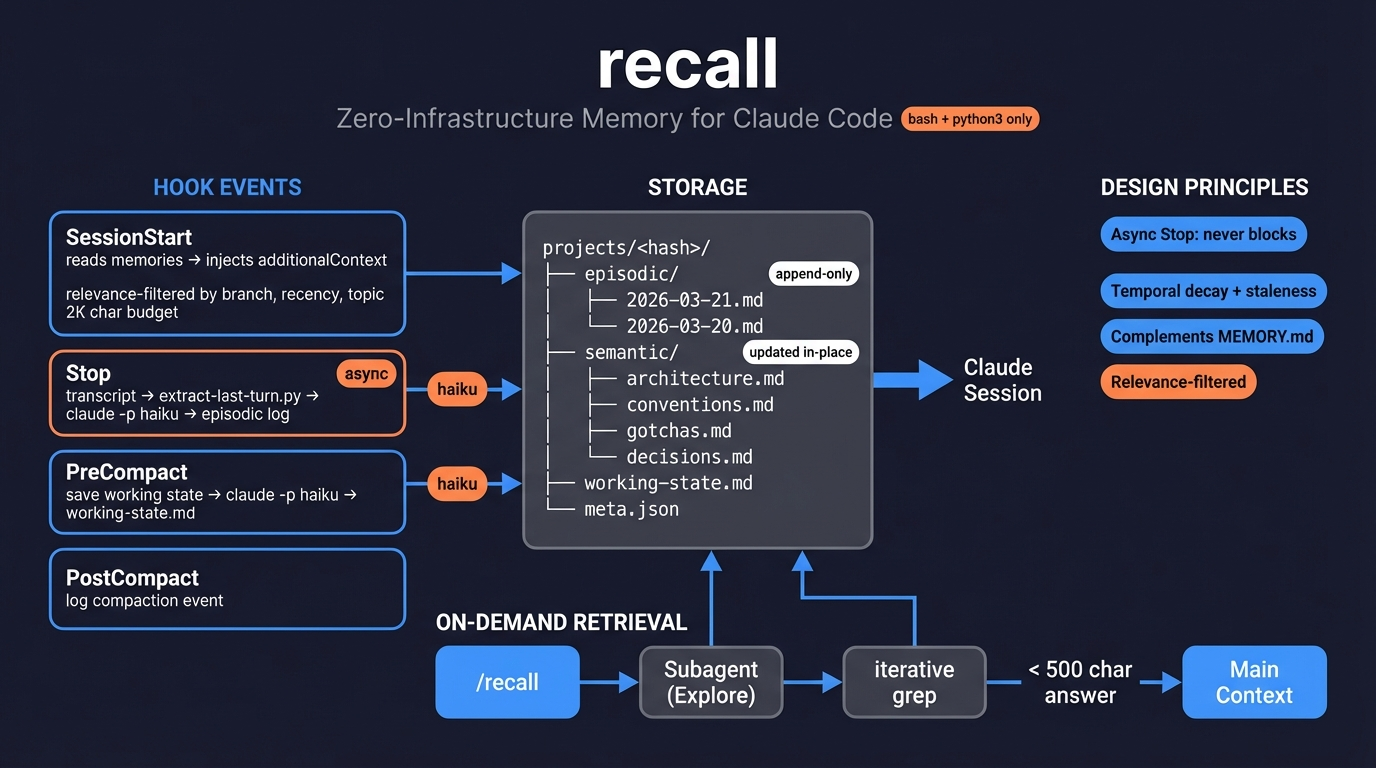
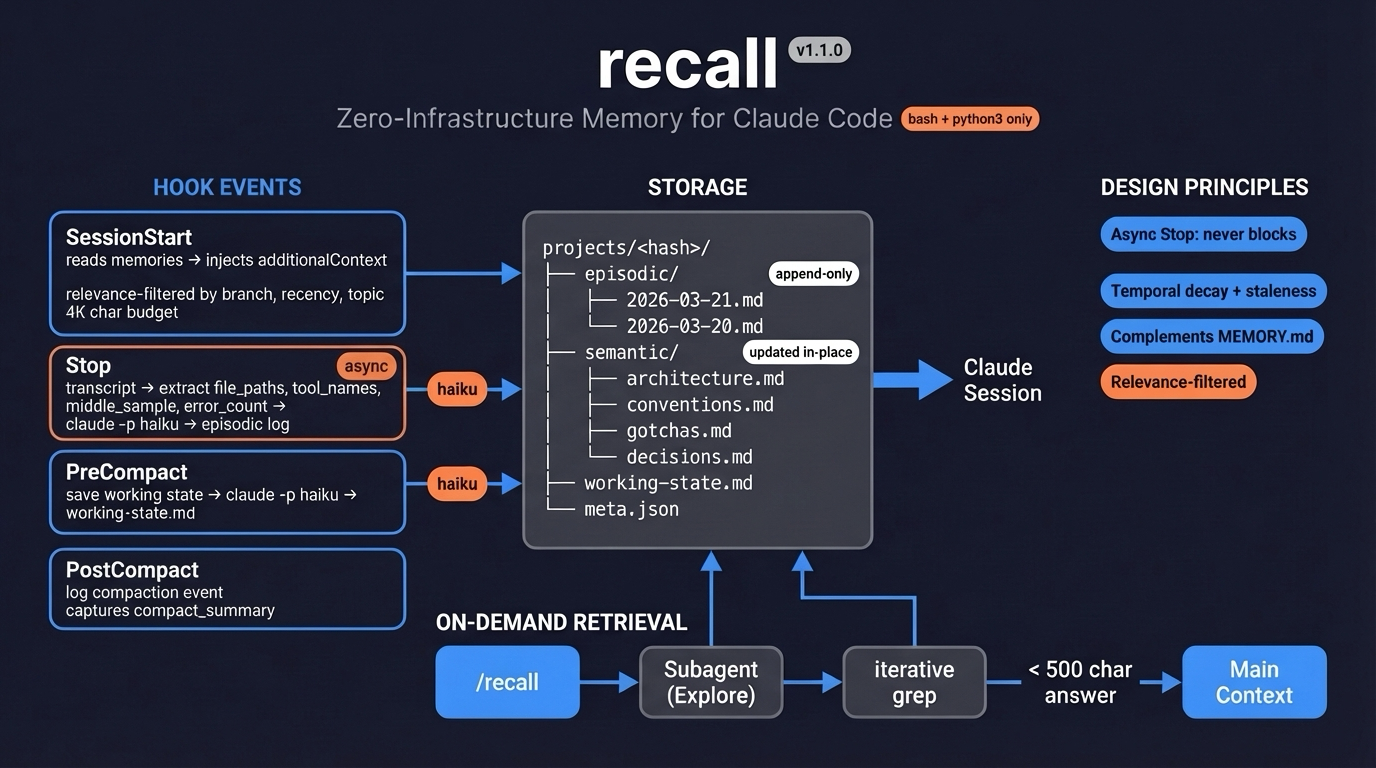
docs: add how-it-works diagram, update architecture for v1.1.0
- New conceptual "How it works" diagram (3 flows: capture/recall/survive)
- Updated architecture diagram with v1.1.0 changes (4K budget, enriched
  extraction, compact_summary capture)
- README hero image now uses the conceptual diagram; architecture diagram
  moved to the Architecture section

diff --git a/README.md b/README.md
@@ -2,7 +2,7 @@
 
 Zero-infrastructure memory for Claude Code. Captures session knowledge as markdown, injects relevant context on startup, survives compaction.
 
-![recall architecture](assets/architecture.png)
+![How recall works](assets/how-it-works.png)
 
 ## Why recall?
 
